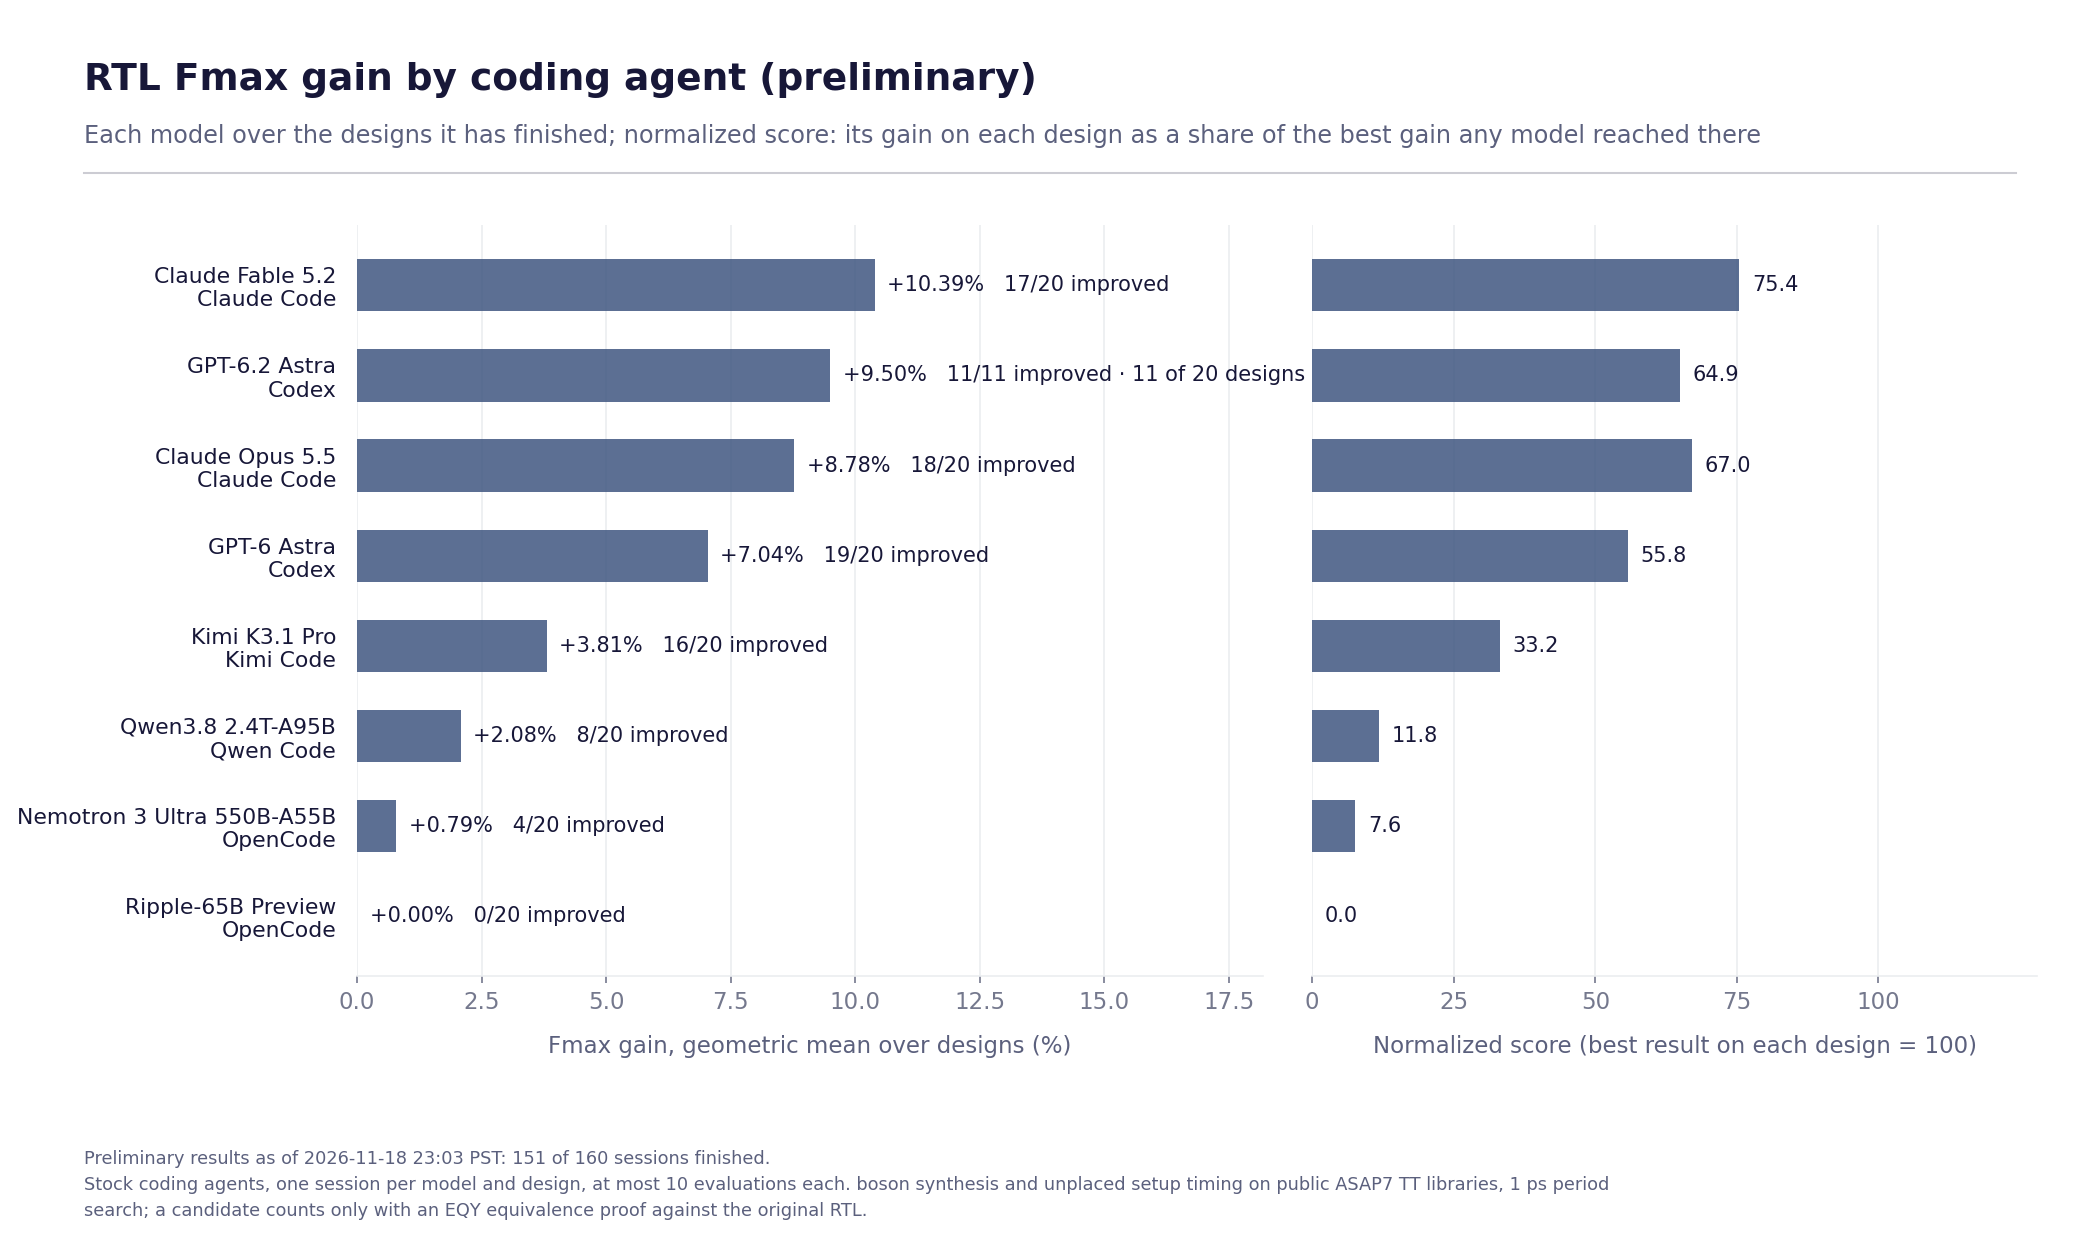
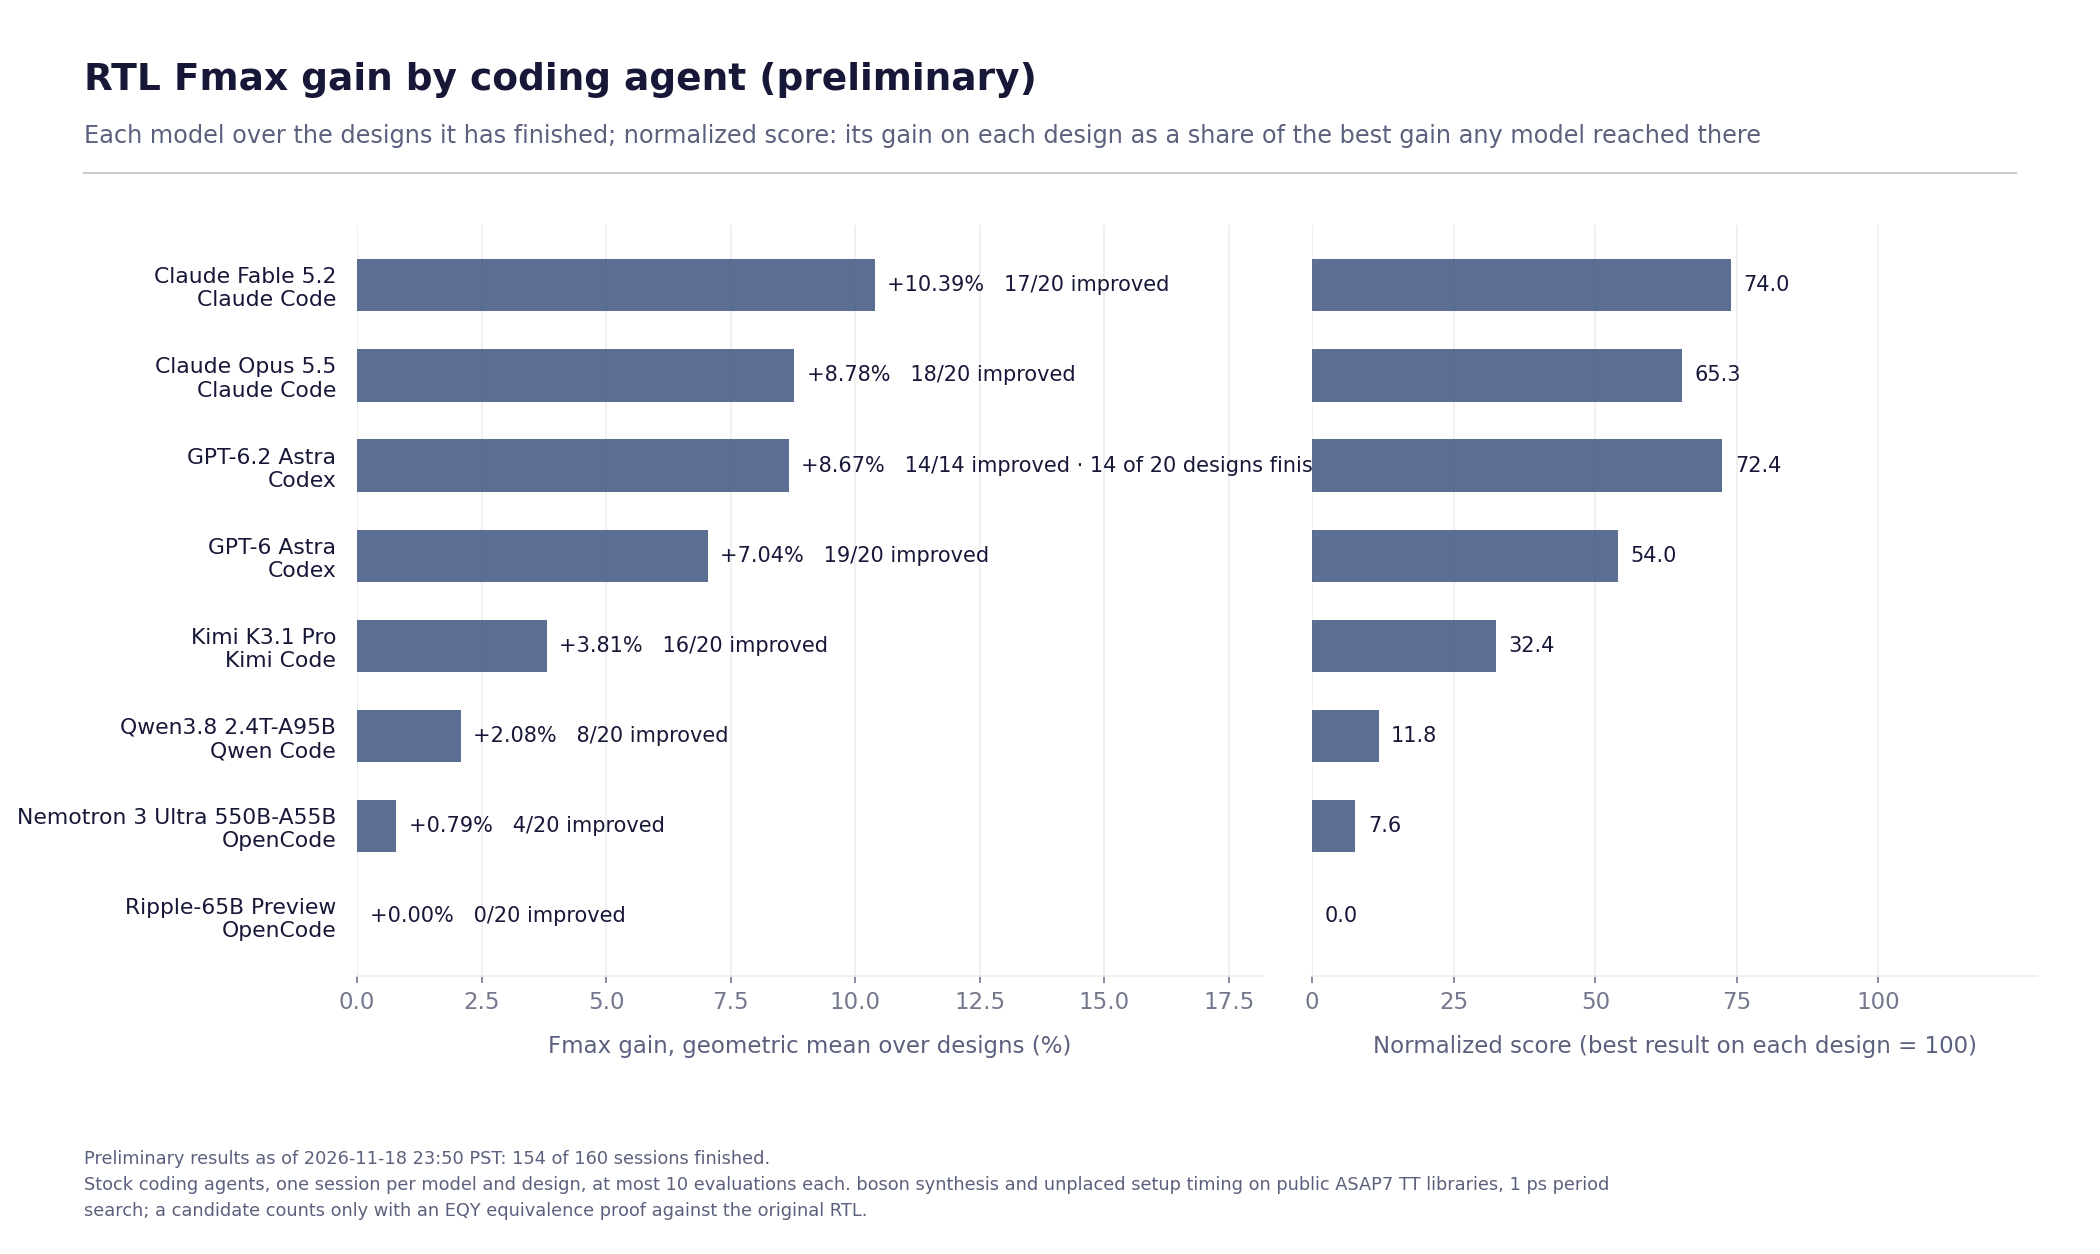
Refresh preliminary results: 154 of 160 sessions finished
Data as of 2026-11-18 23:50 PST.

diff --git a/README.md b/README.md
@@ -22,7 +22,7 @@ accepted only when it is proven equivalent and faster than the session's best so
 ## Results
 
 <!-- results:start -->
-**Status:** 151 of 160 sessions finished (8 models, 20 designs), as of 2026-11-18 23:03 PST.
+**Status:** 154 of 160 sessions finished (8 models, 20 designs), as of 2026-11-18 23:50 PST.
 
 ### Coverage
 
@@ -34,18 +34,18 @@ accepted only when it is proven equivalent and faster than the session's best so
 | Qwen3.8 2.4T-A95B | Qwen (Alibaba) | Qwen Code 0.27.1 | OpenRouter, one pinned provider (SiliconFlow, FP8) | 20 / 20 |
 | Ripple-65B Preview | Ricursive AI | OpenCode 1.19.5 | Self-hosted (SGLang 0.5.19, BF16) for its first 15 designs; OpenRouter pinned to PrimeIntellect (BF16) for later sessions | 20 / 20 |
 | Nemotron 3 Ultra 550B-A55B | NVIDIA | OpenCode 1.19.5 | OpenRouter, pinned to DeepInfra (FP4), fallbacks disabled | 20 / 20 |
-| GPT-6.2 Astra | OpenAI | Codex 0.169.1 | Official CLI signed in to a subscription; reasoning effort medium, as GPT-6 Astra ran | 11 / 20 |
+| GPT-6.2 Astra | OpenAI | Codex 0.169.1 | Official CLI signed in to a subscription; reasoning effort medium, as GPT-6 Astra ran | 14 / 20 |
 | Claude Opus 5.5 | Anthropic | Claude Code 2.1.322 | Official CLI signed in to a subscription | 20 / 20 |
 
 ### Results by model
 
 | Model | Harness | Designs finished | Fmax gain (geomean) | Normalized score | Designs improved | Mean evaluations | Candidates not proven |
 |---|---|---:|---:|---:|---:|---:|---:|
-| Claude Fable 5.2 | Claude Code | 20 / 20 | +10.39% | 75.4 | 17 / 20 | 5.0 | 42% (42 / 99) |
-| GPT-6.2 Astra | Codex | 11 / 20 | +9.50% | 64.9 | 11 / 11 | 8.3 | 54% (49 / 91) |
-| Claude Opus 5.5 | Claude Code | 20 / 20 | +8.78% | 67.0 | 18 / 20 | 4.8 | 42% (40 / 95) |
-| GPT-6 Astra | Codex | 20 / 20 | +7.04% | 55.8 | 19 / 20 | 8.4 | 27% (45 / 169) |
-| Kimi K3.1 Pro | Kimi Code | 20 / 20 | +3.81% | 33.2 | 16 / 20 | 5.9 | 63% (74 / 118) |
+| Claude Fable 5.2 | Claude Code | 20 / 20 | +10.39% | 74.0 | 17 / 20 | 5.0 | 42% (42 / 99) |
+| Claude Opus 5.5 | Claude Code | 20 / 20 | +8.78% | 65.3 | 18 / 20 | 4.8 | 42% (40 / 95) |
+| GPT-6.2 Astra | Codex | 14 / 20 | +8.67% | 72.4 | 14 / 14 | 8.6 | 55% (66 / 121) |
+| GPT-6 Astra | Codex | 20 / 20 | +7.04% | 54.0 | 19 / 20 | 8.4 | 27% (45 / 169) |
+| Kimi K3.1 Pro | Kimi Code | 20 / 20 | +3.81% | 32.4 | 16 / 20 | 5.9 | 63% (74 / 118) |
 | Qwen3.8 2.4T-A95B | Qwen Code | 20 / 20 | +2.08% | 11.8 | 8 / 20 | 2.1 | 67% (28 / 42) |
 | Nemotron 3 Ultra 550B-A55B | OpenCode | 20 / 20 | +0.79% | 7.6 | 4 / 20 | 6.2 | 72% (89 / 123) |
 | Ripple-65B Preview | OpenCode | 20 / 20 | +0.00% | 0.0 | 0 / 20 | 0.1 | 100% (3 / 3) |
@@ -58,10 +58,10 @@ Fmax gain is the geometric mean of each finished session's Fmax ratio (baseline 
 |---|---:|---:|---:|---:|---|
 | `cheshire.default` | 1.047 | 8 | 0.957 | +9.40% | Claude Opus 5.5 |
 | `cv32e40p.default` | 0.657 | 8 | 0.601 | +9.32% | GPT-6.2 Astra |
-| `cva6.default` | 1.038 | 7 | 1.005 | +3.28% | Claude Opus 5.5 |
+| `cva6.default` | 1.038 | 8 | 1.000 | +3.80% | GPT-6.2 Astra |
 | `cvfpu.fp32_fma` | 1.401 | 8 | 1.070 | +30.93% | Claude Fable 5.2 |
-| `cvfpu.full` | 2.114 | 7 | 1.976 | +6.98% | Claude Opus 5.5 |
-| `ibex.full` | 0.935 | 7 | 0.899 | +4.00% | GPT-6 Astra, Kimi K3.1 Pro |
+| `cvfpu.full` | 2.114 | 8 | 1.943 | +8.80% | GPT-6.2 Astra |
+| `ibex.full` | 0.935 | 8 | 0.895 | +4.47% | GPT-6.2 Astra |
 | `ibex.minimal` | 0.716 | 7 | 0.676 | +5.92% | Claude Fable 5.2 |
 | `nvdla.top` | 0.789 | 7 | 0.728 | +8.38% | Claude Fable 5.2 |
 | `opope.default` | 0.857 | 7 | 0.771 | +11.15% | Claude Opus 5.5 |
@@ -81,9 +81,9 @@ Fmax gain is the geometric mean of each finished session's Fmax ratio (baseline 
 
 Counts over every finished session of the models above. They describe what happened; with one session per model and design they do not establish causes or rankings.
 
-- 740 candidates evaluated: 213 accepted, 149 proven equivalent but not faster than the session's best, 370 not proven (271 with a partition EQY could not prove, 41 at the proof deadline, 52 over the proof memory budget, 6 for another reason), 8 failed to compile or measure.
-- Of 151 finished sessions, 100 ended with the agent finishing on its own, 49 ran to the time budget and 2 ended with an agent error.
-- Sessions used 4.9 of the 10 allowed evaluations on average; 25 used all 10.
+- 770 candidates evaluated: 220 accepted, 155 proven equivalent but not faster than the session's best, 387 not proven (281 with a partition EQY could not prove, 42 at the proof deadline, 58 over the proof memory budget, 6 for another reason), 8 failed to compile or measure.
+- Of 154 finished sessions, 101 ended with the agent finishing on its own, 51 ran to the time budget and 2 ended with an agent error.
+- Sessions used 5.0 of the 10 allowed evaluations on average; 28 used all 10.
 - Largest single gain so far: `mempool.minpool` by Claude Opus 5.5, 2.869 ns to 1.913 ns (+49.97% Fmax).
 <!-- results:end -->
 
